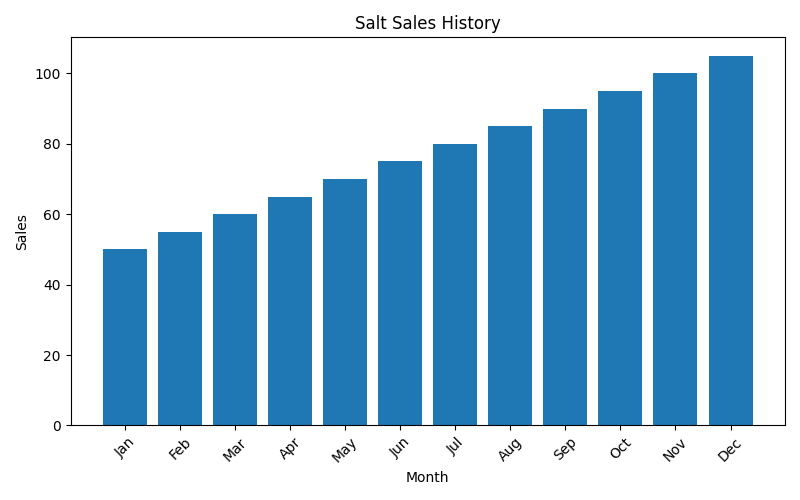
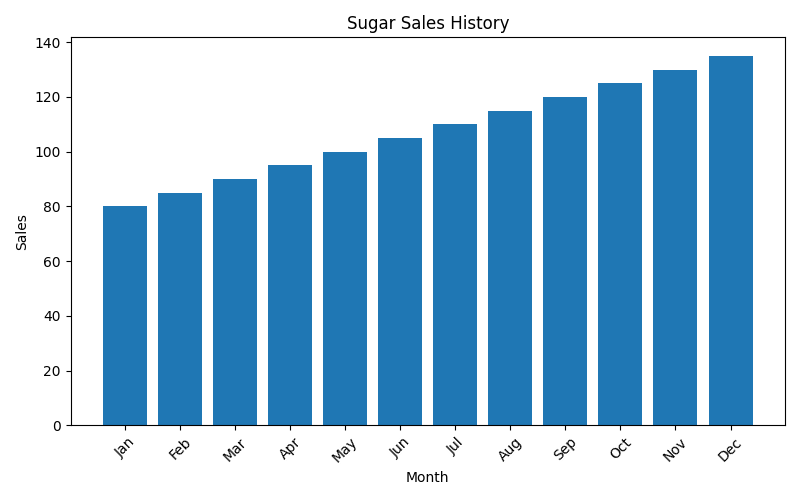
Added AI stock prediction module with graphs and forecasting

diff --git a/ration_shop/ration_shop_stock/templates/predict.html b/ration_shop/ration_shop_stock/templates/predict.html
@@ -72,25 +72,29 @@
 
     <form id="predictForm">
 
-        <label>Select Product</label>
+    <label>Select Product</label>
 
-        <select id="product">
+    <select id="product">
 
-            <option value="rice">Rice</option>
-            <option value="wheat">Wheat</option>
-            <option value="sugar">Sugar</option>
-            <option value="oil">Oil</option>
-            <option value="dal">Dal</option>
-            <option value="salt">Salt</option>
+        <option value="rice">Rice</option>
 
-        </select>
+        <option value="sugar">Sugar</option>
 
-        <button type="submit">
-            Predict Next Month Sales
-        </button>
+        <option value="jowar">Jowar</option>
 
-    </form>
+        <option value="ragi">Ragi</option>
 
+        <option value="palmolein_oil">Palmolein Oil</option>
+
+        <option value="red_gram_dal">Red Gram Dal</option>
+
+    </select>
+
+    <button type="submit">
+        Predict Next Month Sales
+    </button>
+
+</form>
     <!-- Graph Section -->
 
     <div class="graph" id="graphDiv" style="display:none;">

diff --git a/ration_shop/ration_shop_stock/templates/home.html b/ration_shop/ration_shop_stock/templates/home.html
@@ -1,7 +1,7 @@
 <!DOCTYPE html>
 <html>
 <head>
-    <title>Ration Shop - Home</title>
+    <title>welcome- Home</title>
     <style>
         body {
             margin: 0;
@@ -68,7 +68,7 @@
 <body>
 
 <div class="container">
-    <h1>Ration Shop</h1>
+    <h1>welcome</h1>
 
     <a href="/buy">
         <button class="buy">Buy Stock</button>

diff --git a/ration_shop/ration_shop_stock/views.py b/ration_shop/ration_shop_stock/views.py
@@ -10,7 +10,6 @@ from rest_framework.response import Response
 import os
 
 
-# ---------------- HOME PAGES ----------------
 
 def home(request):
     return render(request, "home.html")
@@ -22,8 +21,6 @@ def buy(request):
     return render(request, "buy.html")
 def predict_page(request):
     return render(request, "predict.html")
-
-# ---------------- TOTAL STOCK (GRAPH) ----------------
 
 def total_stack(request):
     import matplotlib.pyplot as plt
@@ -116,7 +113,7 @@ def sale_stack(request):
         jo = int(data["jowar"])
         ra = int(data["raagi"])
 
-        # rice
+       
         cu.execute("select stock from ratio_shop_stock where items=%s", ("rice",))
         rice=cu.fetchall()
         if int(rice[0][0]) >= ri:
@@ -134,7 +131,7 @@ def sale_stack(request):
         else:
             return HttpResponse("Out of stock: sugar")
 
-        # palmolein oil
+   
         cu.execute("select stock from ratio_shop_stock where items=%s", ("palmolein_oil",))
         palmolein=cu.fetchall()
         if int(palmolein[0][0]) >= pa:
@@ -143,7 +140,7 @@ def sale_stack(request):
         else:
             return HttpResponse("Out of stock: palmolein oil")
 
-        # red gram dal
+    
         cu.execute("select stock from ratio_shop_stock where items=%s", ("red_gram_dal",))
         red=cu.fetchall()
         if int(red[0][0]) >= re:
@@ -161,7 +158,6 @@ def sale_stack(request):
         else:
             return HttpResponse("Out of stock: jowar")
 
-        # raagi
         cu.execute("select stock from ratio_shop_stock where items=%s", ("raagi",))
         raagi=cu.fetchall()
         if int(raagi[0][0]) >= ra:
@@ -200,20 +196,20 @@ def predict_data(request):
     product = request.data.get("product")
 
     allowed_products = [
-        "rice",
-        "wheat",
-        "sugar",
-        "oil",
-        "dal",
-        "salt"
-    ]
+    "rice",
+    "sugar",
+    "jowar",
+    "ragi",
+    "palmolein_oil",
+    "red_gram_dal"
+]
 
     if product not in allowed_products:
         return Response({
             "error": "Invalid product"
         })
 
-    # Graph Data
+   
     graph_query = f"""
     SELECT month_name, {product}
     FROM sales_history
